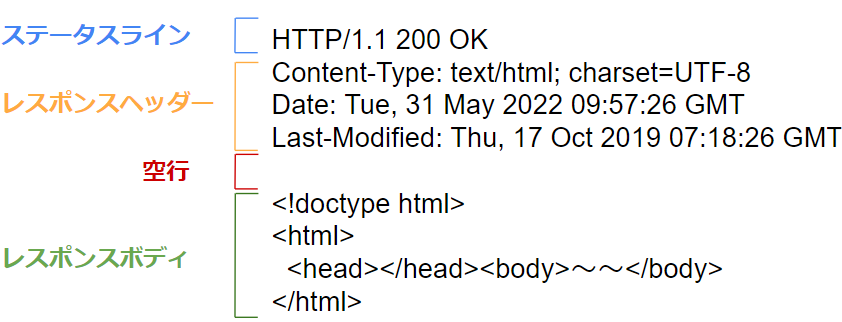
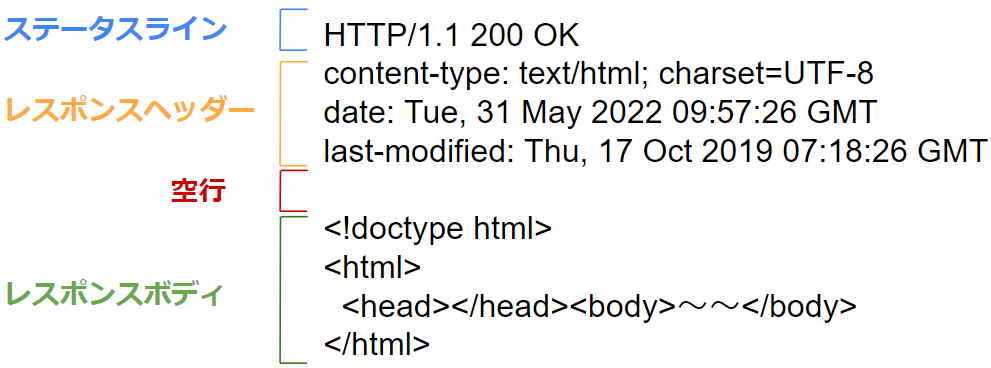
追記中

diff --git a/Webシステム概要/2_2.Webサーバーへのパラメータの渡し方.md b/Webシステム概要/2_2.Webサーバーへのパラメータの渡し方.md
@@ -2,22 +2,22 @@
 
 ## なにこれ？
 ユーザーの入力値などのパラメータをサーバーに渡したいことがよくあります。  
-（例えばユーザー登録画面で登録ボタンを押したときに、ユーザー名や住所などの情報を送りたい など） 
+（例えばユーザー登録画面で入力されたユーザー名や住所などを送りたい など） 
 
-その際はHTTPリクエストにパラメータ情報を含めるのですが、いくつか方法があります。  
+その際はリクエストメッセージにパラメータ情報を含めるのですが、いくつか方法があります。  
 
 ## Webサーバーへのパラメータの渡し方
 
 Webサーバーへパラメータを送信する際、主に使われる方法は以下になります。  
 
-- クエリストリング
-- フォームデータ
-- リクエストボディに特定の形式で記載
-- リクエストヘッダー
+- クエリストリングで送信
+- フォームデータで送信
+- リクエストボディにJsonで記載し送信
+- リクエストヘッダーで送信
 
 以下それぞれについて説明していきます。  
 
-### クエリストリング  
+### クエリストリングで送信 
 URLの末尾の`?`以降の文字列を**クエリ文字列**または**クエリストリング**といいます。  
 ここにパラメータを記載します。   
 例  
@@ -42,26 +42,25 @@ formタグのmethod属性にGETが指定されていた場合、formタグ内の
   
   - セキュリティ  
   URLにパラメータが表示されてしまうため、個人情報や機密情報（パスワードなど）のパラメータがある場合セキュリティ的に問題があります。  
-  お気に入り登録するとそれらのパラメータ込みのURLが平文で保存されてしまいます。  
-  またWebサーバーアプリでアクセスログを出力する場合、大抵のサーバーアプリはリクエストのURLを記録します。  
-  その為予期せぬ箇所でそれらの情報が人目に触れてしまう可能性があります。  
+  お気に入り登録するとパラメータ込みのURLが平文で保存されてしまいます。  
+  またWebサーバー側でアクセスログを記録している場合、大抵のサーバーアプリはリクエストのURLを記録するため、ログ上に機密情報が書き込まれてしまいます。    
 
 
-### フォームデータの送信
+### フォームデータの送信で送信
 リクエストボディにフォームデータ形式で記述します。     
 フォームデータは、`キー=値`形式で記載され、複数ある場合は`&`で連結されます。  
 
 例
 ```http
 POST / HTTP/1.1
-Host: example.com
-Content-Type: application/x-www-form-urlencoded
-Content-Length: 69
+host: example.com
+content-type: application/x-www-form-urlencoded
+content-length: 69
 
 name=yamada&address=hokkaido
 ```
 
-リクエストヘッダーの`Content-Type`は`application/x-www-form-urlencoded`になります。  
+リクエストヘッダーの`content-type`は`application/x-www-form-urlencoded`になります。  
 
 formタグのmethod属性でPOSTを指定しフォームをサブミットした場合、formタグ内のフォームコントロールの値がフォームデータ形式でリクエストボディに記載されます。  
 フォームデータの送信については[別記事](2_1.ブラウザがHTTPリクエストを送るタイミング.md#フォームデータの送信時)で解説しています。  
@@ -70,36 +69,36 @@ formタグのmethod属性でPOSTを指定しフォームをサブミットした
 - 文字数制限がない  
 クエリストリングとは異なり、リクエストボディには文字数の制限がありません。  
 
-- URLだけでは同じパラメータを渡せない  
+- URLだけではパラメータを渡せない  
 URLにパラメータが含まれない為、同じURLを後で開いても同じ処理は行えません。  
 その為、再度リクエストを送られたくないURLによく利用されます。  
 （登録、削除などのデータ変更処理を伴うURLなど）  
 
 - セキュリティ（がクエリストリングよりはよい）  
 URLにパラメータが含まれない為、URLをブックマークされてもパラメータが保存されません。  
-またWebサーバーはログにリクエストボディまでは出力しない場合が多いです。  
-その為、クエリストリングよりは機密情報などが人目につく確率は低いです。  
+またWebサーバー側でログ出力する際、リクエストボディまでは出力しない場合が多いです。  
+その為、クエリストリングよりはパラメータが人目につく確率は低いです。  
 (とはいえ完璧に隠ぺいできるわけではないので、あくまで比較するとましであるというだけです。)    
    
 ####  デメリット  
 - ブックマークなどから再度同じ処理を行えない  
 メリットの項でも述べましたが、URLにパラメータが含まれない為、ブックマークされたURLを後で開いても同じ処理は行えません。  
-そのため、ブックマークして再度開いてもらいたい画面の場合は使えません。  
+そのため、参照系の画面でブックマークから再度開いてもらいたい場合は使えません。  
 
 
 Javascriptを使わずにブラウザからリクエストが発行される場合は、上記2つのいずれかの方法でパラメータを渡すことになります。  
 
-### リクエストボディにJson形式で記述  
+### リクエストボディにJson形式で記載し送信  
 JavascriptなどでHTTPリクエストを作って発行する際は、パラメータを自由に記述することが出来ます。  
-リクエストヘッダーで渡すことも出来ますし、リクエストボディにフォームデータ形式以外の形式でパラメータを含めることも出来ます。  
+クエリストリングで渡すことも出来ますし、リクエストボディにフォームデータ形式以外の形式でパラメータを含めることも出来ます。  
 
-ただよく使われるのは、[Json](2_3.JSONとは.md)の文字列をリクエストボディに含める方法です。  
+ただよく使われるのは、Jsonの文字列をリクエストボディに含める方法です。  
 以下のようなリクエストを発行します。   
 ```http
 POST / HTTP/1.1
-Host: example.com
-Content-Type: application/json
-Content-Length: 24
+host: example.com
+content-type: application/json
+content-length: 24
 
 {"name":"yamada", "address":"hokkaido"}
 ```
@@ -119,39 +118,39 @@ javascriptのFetch関数を利用した例
 //送信したい値をもったJavascriptのオブジェクト
 const data = {name: "yamada", address: "hokkaido"};
 
+//fetch関数を利用してサーバーにリクエストを送信
 const response = await fetch('http://example.com', {
     method: 'POST', 
-    headers: {'Content-Type': 'application/json'}, 
+    headers: {'content-type': 'application/json'}, 
 
     body: JSON.stringify(data) // JavascriptのオブジェクトをJson文字列に変換してボディに設定
  })
  const result = await response.json(); 
 ```
 
-
 #### メリット  
  - 複雑なデータを表現しやすい  
-jsonは配列やネストしたデータを表現できるため、そのようなデータを送るのが容易です。   
+Jsonは配列やネストしたデータを表現できるため、複雑な構造のデータを送るのが容易です。   
 
-- プログラムから利用しやすい 
+- プログラムから利用しやすい  
 主要なプログラミング言語にはJson文字列⇔その言語のオブジェクトを変換するライブラリが存在します。  
 
 
 #### デメリット  
 -  サーバー側にもJsonの変換処理が必要  
-サーバー側でもリクエストから取り出したJson文字列をサーバー側言語のオブジェクトに変換する処理が必要です。  
+サーバー側でも、リクエストから取り出したJson文字列をサーバー側言語のオブジェクトに変換する処理が必要です。  
 ただ上で説明した通り、Json用のライブラリはほとんどの言語に用意されている為、そこまで難しいことではありません。  
 
 サーバー側でWebフレームワークを使っている場合、Jsonとオブジェクトの変換処理を自動で行ってくれる事が多いです。  
 （この場合変換するコードを書かなくて良いのですが、そのWebフレームワークのルールは把握しておく必要があります。  
-たとえば、リクエストヘッダーに`Content-Type: application/json`を指定しないと自動変換しない、などのルールがある場合があります。）  
+たとえば、リクエストヘッダーに`content-type: application/json`を指定しないと自動変換しない、などのルールがある場合があります。）  
 
 
-### リクエストヘッダーに記述
+### リクエストヘッダーで送信
 リクエストヘッダーには独自のヘッダーを定義することが出来ます。  
 これにパラメータを記載します。  
 
-全リクエスト共通で送りたいパラメータなどを設定します。  
+全リクエスト共通で送りたいパラメータがある場合などに利用します。  
 (ボディの記述形式に関わらずパラメータを設定することが出来るため)  
 例えば認証情報や、ログの為のパラメータなどです。  
 
@@ -178,8 +177,6 @@ const result = await response.json();
     →フォームデータ
   
 - Javascriptからリクエストを送信する場合の場合  
-  自分でHTTPメッセージを作成できるため、コーディング次第でどの形式でも送れます。  
-
   配列やネストしたデータも受け渡しやすい為、Json文字列としてリクエストボディに記述することが多いです。    
 
 最終的にはそれぞれの方法の特性とWebページの特性を考慮し、設計者・開発者が決めることになります。    
@@ -191,17 +188,16 @@ const result = await response.json();
 この場合、サーバー側では動的ページを作成する為の（JavaやC#などで作った）プログラムを実行することになります。  
 (サーバー側プログラムについては[別記事](3_1.Webサーバーの構成.md)で解説します。)
 
-ここでは、サーバー側のプログラムでクライアントから送られたパラメータを取得する実装について紹介します。  
+ここでは、クライアントから送られたパラメータを、サーバー側のプログラムから取得する実装について紹介します。  
 （言語やフレームワークによって取り方は違いますので、雰囲気が伝わればと思います。）  
-。  
 
 サーバー側のプログラムを作る際、Web関連の処理を行うためのライブラリを使うことが一般的です。  
 (Java ServletやASP.NETなど)  
-それらのライブラリでは、リクエストメッセージを表すクラスが存在し、そこにクエリストリングやヘッダー情報などが格納される作りになっている物が多いです。  
+それらのライブラリには、リクエストメッセージを表すクラスが存在し、そこにクエリストリングやヘッダー情報などが格納される作りになっていることが多いです。  
 ライブラリはリクエストメッセージからそのクラスのインスタンスを生成するところまでを行ってくれます。  
 
 ここではC#のASP.NET MVCの場合の実装例を示します。  
-（上の各リクエスト例と同じ、name、addressというパラメータが送られて来た場合の例）  
+（上の各リクエスト例と同じ、addressというパラメータが送られて来た場合の例）  
 ```c#
  //リクエストメッセージを表すクラスのインスタンスを取得。
  //HttpContextというプロパティ経由で取得できる。
@@ -216,16 +212,16 @@ string queryStringValue = request.Query["address"];
 //フォームデータのパラメータを取得
 string formValue = request.Form["address"];
 
-//リクエストボディの取得。（取得した文字列がJsonと想定）
+//リクエストボディの取得。
 string bodyString = new StreamReader(request.Body).ReadToEnd();
-//Json文字列をC#側で用意したクラスのインスタンスに変換している。
+//（取得した文字列がJsonと想定）Json文字列をC#側で用意したクラスのインスタンスに変換する。
 MyParameter parameter = JsonSerializer.Deserialize<MyParameter>(bodyString); 
 ```
 
 ただ最近の開発においては、Web用のライブラリをさらに使いやすくするためのフレームワークを使用することが多いです。  
 (JavaのSpring MVCやC#のASP.NET MVCなど)  
 
-それらのフレームワークは、リクエストのパラメータをあらかじめ用意したクラスのインスタンスに変換する処理までを行ってくれます。  
+それらのフレームワークは、リクエストのパラメータをあらかじめ用意したクラスのインスタンスに変換する処理を行ってくれます。  
 
 ASP.NET MVCの例
 
@@ -249,20 +245,18 @@ public class HomeController : Controller
 }
 ```
 
-このようにしてサーバー側プログラムではクライアントからのパラメータを取りだします。  
+サーバー側プログラムではこのようにしてリクエストメッセージからパラメータを取りだします。  
 
 ## 実装時の注意  
-
-あるリクエストについてどの方法でパラメータを渡すか決めた際は、クライアント（ブラウザ）で動作するHtmlやJavascriptと、サーバー側のプログラムの両方をその方法に合わせて実装する必要があります。  
-例えばクエリストリングで送ると決めれば、htmlやjavascirptはクエリストリングにパラメータを記載するよう実装し、サーバー側はリクエストのクエリストリングからパラメータを取得するように実装することになります。  
+あるリクエストについてどの方法でパラメータを渡すか決めた際は、クライアント（ブラウザ）側のHTMLやJavascriptのパラメータ送信方法と、サーバー側のパラメータ取得方法を合わせて実装する必要があります。  
+例えばクエリストリングで送ると決めれば、クライアント側はクエリストリングにパラメータを記載するよう実装し、サーバー側はクエリストリングからパラメータを取得するように実装することになります。  
 クライアント側もサーバー側も同じ開発者が実装する場合（このケースが多いです）は特に問題無いのですが、もし別々の開発者が実装する場合は、事前に受け渡し方法についてよく確認しておくことが大事です。    
-
 
 
 ## まとめ
 それぞれの渡し方をまとめると以下になります。  
 
-|    |  HTTPメソッド  |  送信元  | パラメータの記載場所   |  リクエストのContent-Type  |
+|    |  HTTPメソッド  |  送信元  | パラメータの記載場所   |  リクエストのcontent-type  |
 | ---- | ---- | ---- | ---- | ---- |
 |  クエリストリングで送信   |  GET  | ブラウザ or Javascript  | URL  | 任意  |
 |  フォームデータで送信  |  GET or POST <br>(formタグのmethod属性で指定する)  | ブラウザ or Javascript   | リクエストボディ  | application/x-www-form-urlencoded  |

diff --git a/Webシステム概要/3_1.Webサーバーの構成.md b/Webシステム概要/3_1.Webサーバーの構成.md
@@ -309,7 +309,7 @@ location /sample/ {
     proxy_pass http://myAPServer:80/sample/; 
 
     # リクエストヘッダーの追加なども記載可能
-		proxy_set_header Host $host;
+		proxy_set_header host $host;
 		～
 }
 ```
@@ -342,7 +342,7 @@ location /sample/ {
     proxy_pass http://localhost:8080/sample/; 
 
     # リクエストヘッダーの追加なども記載可能
-		proxy_set_header Host $host;
+		proxy_set_header host $host;
 		～
 }
 ```
